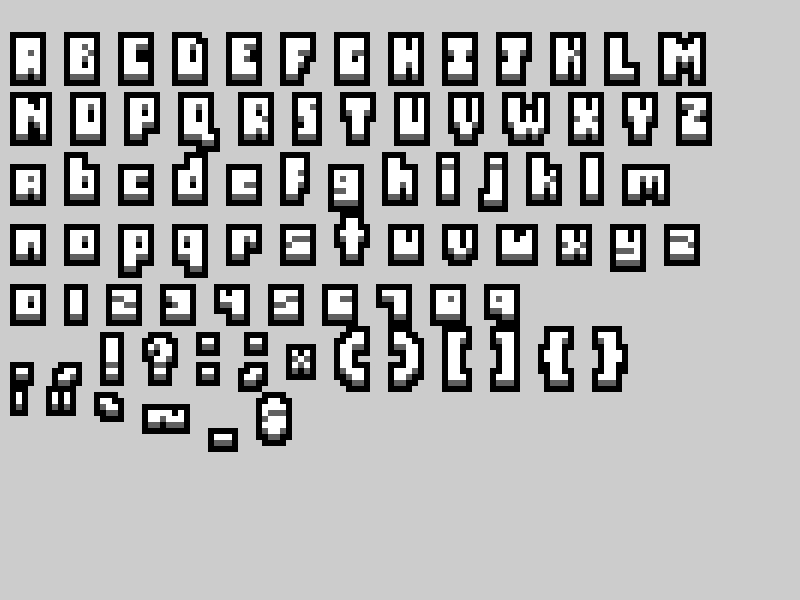
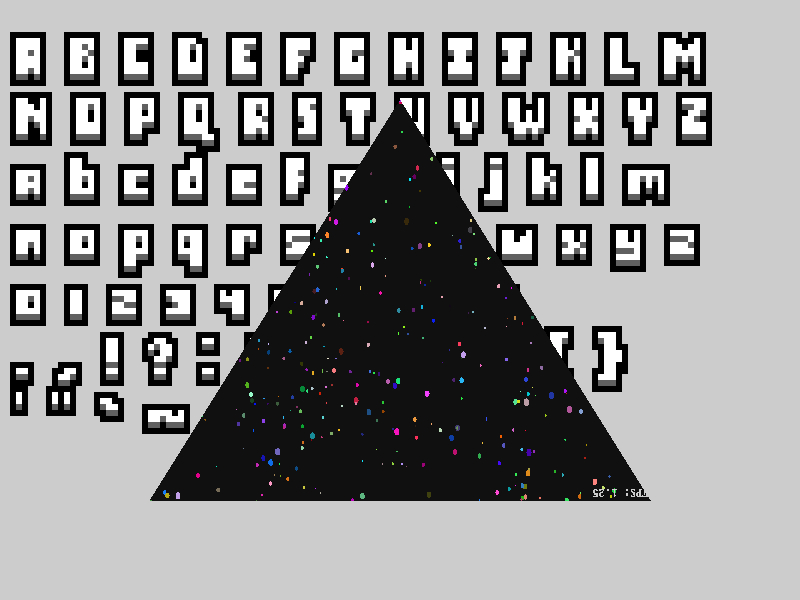
maybe better uv?

Changed region(s): [[0.1875, 0.18, 0.8125, 0.84]]

diff --git a/graphite.h b/graphite.h
@@ -1610,6 +1610,7 @@ namespace Graphite {
                                      const Color color,
                                      const f32 invZ1, const f32 invZ2, const f32 invZ3,
                                      const Canvas* zBuffer) const {
+        PROFILE_FUNCTION();
         auto edge = [](i32 ax, i32 ay, i32 bx, i32 by, i32 x, i32 y) {
             return (x - ax) * (by - ay) - (y - ay) * (bx - ax);
         };
@@ -1788,99 +1789,120 @@ namespace Graphite {
     }
     */
 
-    inline void Canvas::fillTriangleUV(i32 x1, i32 y1, i32 x2, i32 y2, i32 x3, i32 y3,
-                    const glm::vec2& uvOverZ1, const glm::vec2& uvOverZ2, const glm::vec2& uvOverZ3,
-                    const f32 invZ1, const f32 invZ2, const f32 invZ3,
+    inline void Canvas::fillTriangleUV(i32 x1_, i32 y1_, i32 x2_, i32 y2_, i32 x3_, i32 y3_,
+                    const glm::vec2& uvOverZ1_, const glm::vec2& uvOverZ2_, const glm::vec2& uvOverZ3_,
+                    const f32 invZ1_, const f32 invZ2_, const f32 invZ3_,
                     const Canvas& tex, const Canvas* zBuffer, float lerpColor) const {
-
+    PROFILE_FUNCTION();
         auto edge = [](i32 ax, i32 ay, i32 bx, i32 by, i32 x, i32 y) {
             return (x - ax) * (by - ay) - (y - ay) * (bx - ax);
         };
-        const int area = edge(x1, y1, x2, y2, x3, y3);
+        const int area = edge(x1_, y1_, x2_, y2_, x3_, y3_);
         if (area == 0) return;
         const float invArea = 1.0f / static_cast<f32>(area);
 
-        const int minX = std::max(0,                            std::min({x1, x2, x3}));
-        const int maxX = std::min(static_cast<int>(WIDTH)  - 1, std::max({x1, x2, x3}));
-        const int minY = std::max(0,                            std::min({y1, y2, y3}));
-        const int maxY = std::min(static_cast<int>(HEIGHT) - 1, std::max({y1, y2, y3}));
-        if (minX > maxX || minY > maxY) return;
+        i32 x1=x1_, y1=y1_, x2=x2_, y2=y2_, x3=x3_, y3=y3_;
+        f32 invZ1=invZ1_, invZ2=invZ2_, invZ3=invZ3_;
+        glm::vec2 uvOverZ1=uvOverZ1_, uvOverZ2=uvOverZ2_, uvOverZ3=uvOverZ3_;
 
-        // These are the per-pixel steps for each weight, matching your loop exactly:
-        // w0 += dy12 per x,  w0 -= dx12 per y
-        // w1 += dy20 per x,  w1 -= dx20 per y
-        // w2 += dy01 per x,  w2 -= dx01 per y
-        const int dy12 = y3-y2, dy20 = y1-y3, dy01 = y2-y1;
-        const int dx12 = x3-x2, dx20 = x1-x3, dx01 = x2-x1;
+        // Sort vertices by Y (top to bottom): p0 = top, p2 = bottom
+        if (y1 > y2) { std::swap(x1,x2); std::swap(y1,y2); std::swap(invZ1,invZ2); std::swap(uvOverZ1,uvOverZ2); }
+        if (y1 > y3) { std::swap(x1,x3); std::swap(y1,y3); std::swap(invZ1,invZ3); std::swap(uvOverZ1,uvOverZ3); }
+        if (y2 > y3) { std::swap(x2,x3); std::swap(y2,y3); std::swap(invZ2,invZ3); std::swap(uvOverZ2,uvOverZ3); }
+        // now y1 <= y2 <= y3
 
-        int w0_row = edge(x2, y2, x3, y3, minX, minY);
-        int w1_row = edge(x3, y3, x1, y1, minX, minY);
-        int w2_row = edge(x1, y1, x2, y2, minX, minY);
+        const int minY = std::max(y1, 0);
+        const int maxY = std::min(y3, static_cast<int>(HEIGHT) - 1);
+        if (minY > maxY) return;
 
-        // Attribute at (minX, minY) using exact same bary math as original
-        const float b0s = (float)w0_row * invArea;
-        const float b1s = (float)w1_row * invArea;
-        const float b2s = (float)w2_row * invArea;
+        // Attribute gradients (same derivation as before)
+        const float dInvZ_dx  =  (invZ1*(float)(y3-y2)     + invZ2*(float)(y1-y3)     + invZ3*(float)(y2-y1))     * invArea;
+        const float dInvZ_dy  = -(invZ1*(float)(x3-x2)     + invZ2*(float)(x1-x3)     + invZ3*(float)(x2-x1))     * invArea;
+        const float dUVZx_dx  =  (uvOverZ1.x*(float)(y3-y2) + uvOverZ2.x*(float)(y1-y3) + uvOverZ3.x*(float)(y2-y1)) * invArea;
+        const float dUVZx_dy  = -(uvOverZ1.x*(float)(x3-x2) + uvOverZ2.x*(float)(x1-x3) + uvOverZ3.x*(float)(x2-x1)) * invArea;
+        const float dUVZy_dx  =  (uvOverZ1.y*(float)(y3-y2) + uvOverZ2.y*(float)(y1-y3) + uvOverZ3.y*(float)(y2-y1)) * invArea;
+        const float dUVZy_dy  = -(uvOverZ1.y*(float)(x3-x2) + uvOverZ2.y*(float)(x1-x3) + uvOverZ3.y*(float)(x2-x1)) * invArea;
 
-        float     invZ_row = invZ1*b0s    + invZ2*b1s    + invZ3*b2s;
-        glm::vec2 uvZ_row  = uvOverZ1*b0s + uvOverZ2*b1s + uvOverZ3*b2s;
-
-        // Incremental steps derived from weight steps:
-        // dAttr/dx = (A1*dy12 + A2*dy20 + A3*dy01) * invArea
-        // dAttr/dy = (A1*(-dx12) + A2*(-dx20) + A3*(-dx01)) * invArea
-        //          = -(A1*dx12 + A2*dx20 + A3*dx01) * invArea
-        const float dInvZ_dx = (invZ1*(float)dy12  + invZ2*(float)dy20  + invZ3*(float)dy01)  * invArea;
-        const float dInvZ_dy = -(invZ1*(float)dx12 + invZ2*(float)dx20  + invZ3*(float)dx01)  * invArea;
-
-        const glm::vec2 dUVZ_dx = (uvOverZ1*(float)dy12  + uvOverZ2*(float)dy20  + uvOverZ3*(float)dy01)  * invArea;
-        const glm::vec2 dUVZ_dy = -(uvOverZ1*(float)dx12 + uvOverZ2*(float)dx20  + uvOverZ3*(float)dx01)  * invArea;
+        // Attribute values at vertex 0 (top)
+        const float invZ_v0  = invZ1;
+        const float uvZx_v0  = uvOverZ1.x;
+        const float uvZy_v0  = uvOverZ1.y;
 
         const bool doLerp = (lerpColor != -1.0f);
+        const float texW  = static_cast<float>(tex.getWidth());
+        const float texH  = static_cast<float>(tex.getHeight());
 
-        // Precompute tex dimensions as float once
-        const float texW = static_cast<float>(tex.getWidth());
-        const float texH = static_cast<float>(tex.getHeight());
+        // Edge slopes: x advances per y step along each edge
+        // Long edge: v0->v2, upper short: v0->v1, lower short: v1->v2
+        const float dyTotal = (float)(y3 - y1);
+        const float dyUpper = (float)(y2 - y1);
+        const float dyLower = (float)(y3 - y2);
 
-        for (int y = minY; y <= maxY; ++y) {
-            int       w0     = w0_row;
-            int       w1     = w1_row;
-            int       w2     = w2_row;
-            float     invZ_x = invZ_row;
-            glm::vec2 uvZ_x  = uvZ_row;
+        const float slopeLong  = dyTotal > 0 ? (float)(x3 - x1) / dyTotal : 0.0f;
+        const float slopeUpper = dyUpper > 0 ? (float)(x2 - x1) / dyUpper : 0.0f;
+        const float slopeLower = dyLower > 0 ? (float)(x3 - x2) / dyLower : 0.0f;
 
-            u32* row  = pixels + y * STRIDE;
-            f32* zRow = zBuffer ? reinterpret_cast<f32*>(zBuffer->pixels) + y * STRIDE : nullptr;
+        // Determine which side the long edge is on
+        // midpoint of long edge at y2, compare to x2
+        const float xMid = x1 + slopeLong * dyUpper;
+        const bool longOnRight = xMid >= (float)x2;
 
-            for (int x = minX; x <= maxX; ++x) {
-                if ((w0 >= 0 && w1 >= 0 && w2 >= 0) || (w0 <= 0 && w1 <= 0 && w2 <= 0)) {
+        // We'll walk two x cursors per row: xLeft, xRight
+        // Upper half: y1..y2, Lower half: y2..y3
+        for (int half = 0; half < 2; ++half) {
+            const int   yStart  = (half == 0) ? y1   : y2;
+            const int   yEnd    = (half == 0) ? y2   : y3;
+            const float xShort0 = (half == 0) ? (float)x1 : (float)x2;
+            const float slopeShort = (half == 0) ? slopeUpper : slopeLower;
+
+            // Long edge x at yStart
+            const float xLong0 = (float)x1 + slopeLong * (float)(yStart - y1);
+
+            const int rowStart = std::max(yStart, minY);
+            const int rowEnd   = std::min(yEnd,   static_cast<int>(HEIGHT) - 1);
+
+            for (int y = rowStart; y <= rowEnd; ++y) {
+                const float t = (float)(y - yStart);
+                float xLong  = xLong0  + slopeLong  * t;
+                float xShort = xShort0 + slopeShort * t;
+
+                int xL = (int)(longOnRight ? xShort : xLong);
+                int xR = (int)(longOnRight ? xLong  : xShort);
+                xL = std::max(xL, 0);
+                xR = std::min(xR, static_cast<int>(WIDTH) - 1);
+                if (xL > xR) continue;
+
+                // Compute attributes at (xL, y) from vertex 0
+                const float dy = (float)(y  - y1);
+                const float dx = (float)(xL - x1);
+                float invZ_x = invZ_v0  + dInvZ_dx  * dx + dInvZ_dy  * dy;
+                float uvZx_x = uvZx_v0  + dUVZx_dx  * dx + dUVZx_dy  * dy;
+                float uvZy_x = uvZy_v0  + dUVZy_dx  * dx + dUVZy_dy  * dy;
+
+                u32* row  = pixels + y * STRIDE;
+                f32* zRow = zBuffer ? reinterpret_cast<f32*>(zBuffer->pixels) + y * STRIDE : nullptr;
+
+                for (int x = xL; x <= xR; ++x) {
                     if (!zRow || invZ_x >= zRow[x]) {
                         if (zRow) zRow[x] = invZ_x;
 
-                        // Perspective divide
                         const float z = 1.0f / invZ_x;
-                        const glm::vec2 uv = uvZ_x * z;
+                        const float u = 1.0f - glm::clamp(uvZx_x * z, 0.001f, 0.999f);
+                        const float v = 1.0f - glm::clamp(uvZy_x * z, 0.001f, 0.999f);
 
-                        // Inline sampleUV — avoids function call, same logic
-                        const float u = 1.0f - glm::clamp(uv.x, 0.001f, 0.999f);
-                        const float v = 1.0f - glm::clamp(uv.y, 0.001f, 0.999f);
                         Color c = tex.getPixelColor(
                             static_cast<u32>(u * texW),
                             static_cast<u32>(v * texH)
                         );
-
                         if (doLerp) c = lerpColors(c, Colors::Black, lerpColor);
                         blendPixel(row[x], c);
                     }
+
+                    invZ_x += dInvZ_dx;
+                    uvZx_x += dUVZx_dx;
+                    uvZy_x += dUVZy_dx;
                 }
-
-                w0 += dy12; w1 += dy20; w2 += dy01;
-                invZ_x += dInvZ_dx;
-                uvZ_x  += dUVZ_dx;
             }
-
-            w0_row -= dx12; w1_row -= dx20; w2_row -= dx01;
-            invZ_row += dInvZ_dy;
-            uvZ_row  += dUVZ_dy;
         }
     }
 

diff --git a/testing/remake_test.cpp b/testing/remake_test.cpp
@@ -2,10 +2,16 @@
 // Created by Nico Russo on 4/19/26.
 //
 
+#define PROFILING 1
 #include <graphite.h>
 
+
+
 int main() {
+    omni::basic::Benchmark::Get().BeginSession("render", "../testing/results.json");
     const Graphite::Canvas canvas(800, 600);
+    const Graphite::Canvas texture("../testing/output.ppm");
+    const Graphite::Canvas zBuffer(800, 600);
 
     canvas.fill(Graphite::Colors::LightGrey);
 
@@ -17,10 +23,35 @@ int main() {
                                    ". , ! ? : ; * ( ) [ ] { } \n"
                                    "\' \" ` ~ _ $", 10, 80, 6);
 
+
+
+    canvas.fillTriangle(
+        400, 100,   // top
+        150, 500,   // bottom-left
+        650, 500,   // bottom-right
+        Graphite::Colors::Red,
+        1.0f, 1.0f, 1.0f,                            // invZ per vertex
+        &zBuffer    // no z-buffer
+    );
+
+
+    canvas.fillTriangleUV(
+        400, 100,   // top
+        150, 500,   // bottom-left
+        650, 500,   // bottom-right
+        {0.5f, 0.0f}, {0.0f, 1.0f}, {1.0f, 1.0f},  // uvOverZ (== uv when invZ=1)
+        1.0f, 1.0f, 1.0f,                            // invZ per vertex
+        texture,
+        &zBuffer,    // no z-buffer
+        -1.0f       // no lerp
+    );
+
     if (!canvas.saveToJPG("../testing/new_output.jpg")) {
         omni::LOG_ERROR("Failed to save to JPEG");
         return 1;
     }
+
+    omni::basic::Benchmark::Get().EndSession();
 
     return 0;
 }
